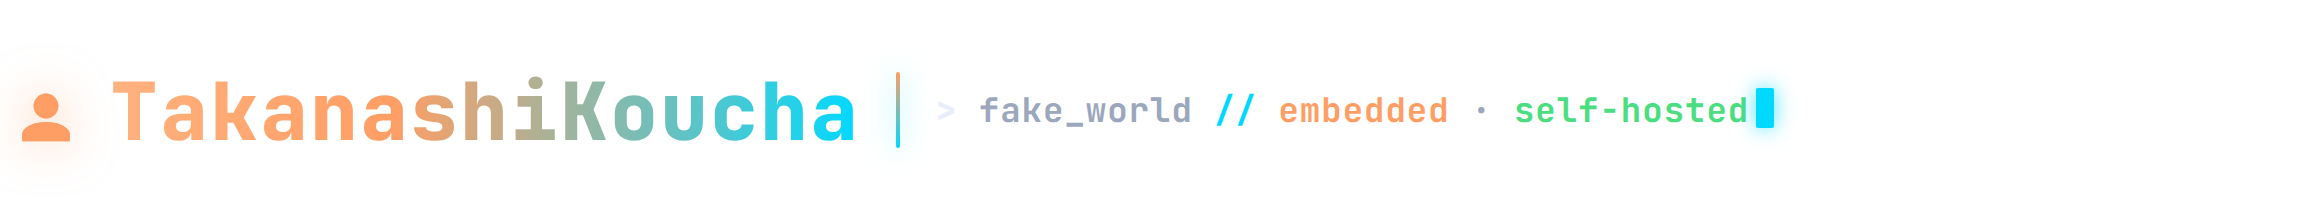
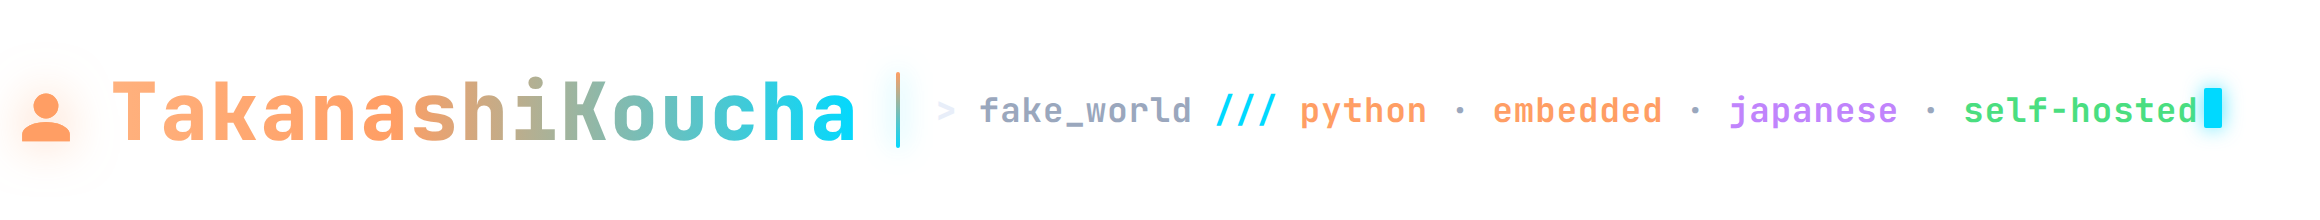
Merge into single mobile-first vertical config card; pipeline DeepSeek HARNESS -> Qwen3.8 27B Q5_K_M -> llama.cpp ROCm 7.2; 1531 TOPS; pill links as markdown
- drop research card and old hero card; one wide-vertical card now holds
  name, status, AI compute (GPU 1531 TOPS / FP8 383 TFLOPS / ROCm 7.2,
  CPU 9900X), memory (32 GB + ZRAM 8 GB + Swap 40 GB), storage, system,
  and the vertical local AI pipeline
- fix glyphs that failed to render (arrow replaced, nowrap on values)
- local AI pipeline: DeepSeek HARNESS -> Qwen3.8 27B Q5_K_M -> llama.cpp ROCm 7.2
- typing header: python / embedded / japanese / self-hosted
- follow/star/repo/blog pills moved out of the image into clickable
  shields.io badge links in the README

Changed region(s): [[0.5276, 0.3545, 0.9621, 0.6273]]

diff --git a/README.md b/README.md
@@ -1,20 +1,12 @@
 <div align="center">
 
-![TakanashiKoucha — fake_world // embedded · 日语 · self-hosted](images/typing.png)
+![TakanashiKoucha — fake_world // python · embedded · japanese · self-hosted](images/typing.png)
 
 </div>
 
 <div align="center">
 
-![KouchaLab — system profile & AI compute stack](images/hero.png)
-
-</div>
-
-<br>
-
-<div align="center">
-
-![KouchaLab — about / research](images/research.png)
+![KouchaLab — system config & local AI stack](images/config.png)
 
 </div>
 
@@ -22,9 +14,9 @@
 
 <div align="center">
 
-**AMD Ryzen 9 9900X** · 12C/24T Zen 5 · 5.75 GHz · AVX-512 + BF16 + VNNI<br>
-**Radeon AI PRO R9700** · RDNA 4 (Navi 48) · **766 TOPS** AI 算力 · FP8 383 TFLOPS · 32 GB GDDR6 · PCIe 5.0<br>
-**32 GB DDR5** · ZRAM 8 GB · Swap 40 GB<br>
-**Fedora 44** · KDE Plasma 6.7 · kernel 7.1.10 · ROCm 7 · self-hosted lab
+[![GitHub stars](https://img.shields.io/github/stars/Takanashikoucha/Takanashikoucha?label=stars&labelColor=0a0c12&color=ffb887&style=flat-square&logo=github)](https://github.com/Takanashikoucha/Takanashikoucha)
+[![GitHub repos](https://img.shields.io/github/repositories/Takanashikoucha?label=repos&labelColor=0a0c12&color=4ade80&style=flat-square&logo=github)](https://github.com/Takanashikoucha?tab=repositories)
+[![GitHub followers](https://img.shields.io/github/followers/Takanashikoucha?label=followers&labelColor=0a0c12&color=ff9e64&style=flat-square&logo=github)](https://github.com/Takanashikoucha?tab=followers)
+[![Blog 红茶馆](https://img.shields.io/badge/blog-%E7%BA%A2%E8%8C%B6%E9%A6%86-c084fc?labelColor=0a0c12&style=flat-square)](https://takanashikoucha.github.io/)
 
 </div>
